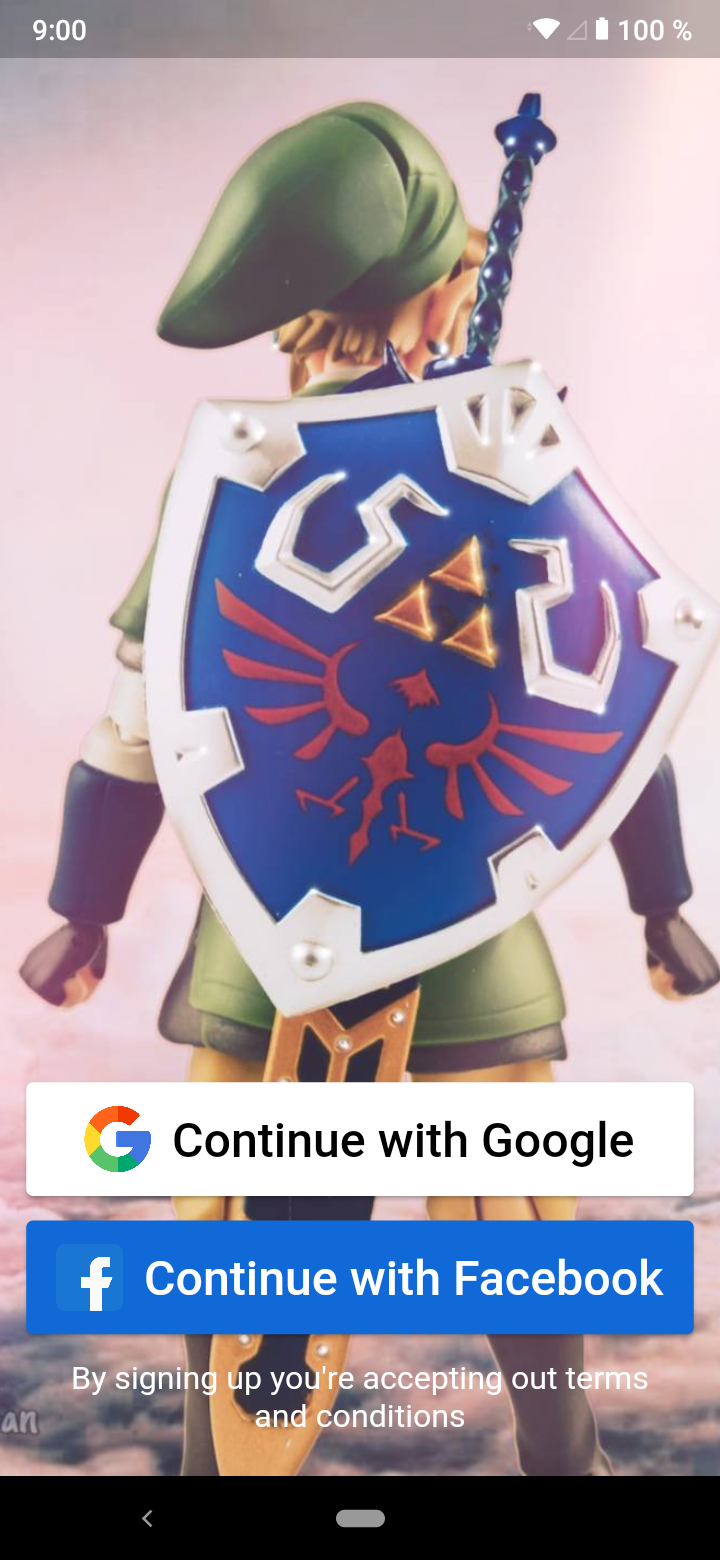
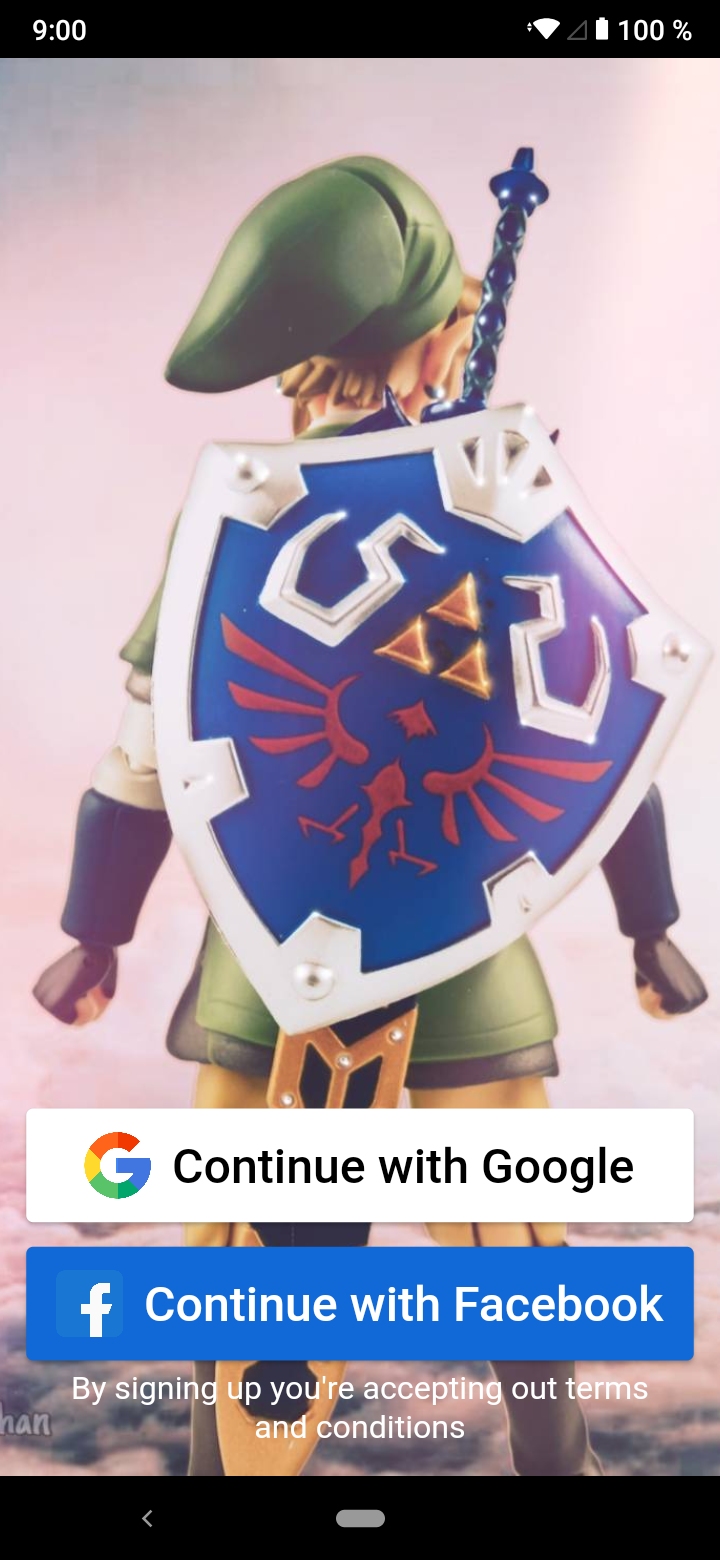
SafeArea

diff --git a/lib/screens/practice_20.dart b/lib/screens/practice_20.dart
@@ -11,7 +11,7 @@ class Practice20 extends StatelessWidget {
         child: Column(
           children: [
             Container(
-              height: 325,
+              height: 315,
               width: double.infinity,
               child: Stack(
                 children: [
@@ -118,14 +118,14 @@ class Practice20 extends StatelessWidget {
               ),
             ),
             Container(
-              padding: EdgeInsets.fromLTRB(20, 10, 20, 10),
+              padding: EdgeInsets.fromLTRB(20, 5, 20, 10),
               child: Text(
                 "Lorem Ipsum is simply dummy text of the printing and typesetting industry. Lorem Ipsum has been the industry's standard dummy text ever since the 1500s, when an unknown printer took a galley of type and scrambled it to make a type specimen book. It has survived not only five centuries, but also the leap into electronic typesetting, remaining essentially unchanged. It was popularised in the 1960s with the release of Letraset sheets containing Lorem Ipsum passages, and more recently with desktop publishing software like Aldus PageMaker including versions of Lorem Ipsum.",
                 style: TextStyle(fontSize: 16),
               ),
             ),
             Container(
-              padding: EdgeInsets.fromLTRB(10, 15, 10, 0),
+              padding: EdgeInsets.fromLTRB(10, 5, 10, 0),
               height: 80,
               width: double.infinity,
               child: Row(

diff --git a/lib/screens/practice_15.dart b/lib/screens/practice_15.dart
@@ -14,10 +14,10 @@ class Practice15 extends StatelessWidget {
             children: [
               Container(
                 child: Image.asset("images/taco.jpg",
-                    height: 300, width: double.infinity, fit: BoxFit.fitHeight),
+                    height: 290, width: double.infinity, fit: BoxFit.fitHeight),
               ),
               Container(
-                margin: EdgeInsets.fromLTRB(20, 30, 20, 25),
+                margin: EdgeInsets.fromLTRB(20, 25, 20, 25),
                 child: Column(
                   children: [
                     Container(
@@ -55,8 +55,7 @@ class Practice15 extends StatelessWidget {
                       ),
                     ),
                     SizedBox(
-                      height: 10,
-                      width: 10,
+                      height: 8,
                     ),
                     Container(
                       child: Text(
@@ -65,8 +64,7 @@ class Practice15 extends StatelessWidget {
                       ),
                     ),
                     SizedBox(
-                      height: 25,
-                      width: 15,
+                      height: 10,
                     ),
                     SizedBox(
                       width: double.infinity,

diff --git a/lib/screens/practice_10.dart b/lib/screens/practice_10.dart
@@ -12,7 +12,7 @@ class Practice10 extends StatelessWidget {
         child: Column(
           children: [
             SizedBox(
-              height: 620, //450
+              height: 590, //450
               width: double.infinity,
               child: Image.network("https://i.ibb.co/sbZnGJR/tloz-01.jpg",
                   fit: BoxFit.cover),
@@ -23,7 +23,7 @@ class Practice10 extends StatelessWidget {
                 children: [
                   SizedBox(
                     width: double.infinity,
-                    height: 64,
+                    height: 62,
                     child: OutlinedButton(
                       style: OutlinedButton.styleFrom(
                           side: BorderSide(
@@ -46,7 +46,7 @@ class Practice10 extends StatelessWidget {
                   ),
                   SizedBox(
                     width: double.infinity,
-                    height: 64,
+                    height: 62,
                     child: ElevatedButton(
                         style: ElevatedButton.styleFrom(
                           primary: Color.fromRGBO(17, 105, 215, 1),

diff --git a/lib/custom_widgets/product_card_23.dart b/lib/custom_widgets/product_card_23.dart
@@ -26,7 +26,9 @@ class ProductCard23 extends StatelessWidget {
             child: Stack(
               children: [
                 Container(
-                  padding: EdgeInsets.all(10.0),
+                  margin: EdgeInsets.all(10.0),
+                  //padding: EdgeInsets.all(10.0),
+                  color: Colors.white,
                   height: double.infinity,
                   width: double.infinity,
                   child: Image.asset(imageURL, fit: BoxFit.fitHeight),
@@ -39,7 +41,6 @@ class ProductCard23 extends StatelessWidget {
                       height: 25,
                       width: 30,
                       decoration: BoxDecoration(
-                        color: Colors.white,
                         borderRadius: BorderRadius.circular(100),
                       ),
                       child: Column(

diff --git a/lib/screens/practice_18.dart b/lib/screens/practice_18.dart
@@ -23,8 +23,8 @@ class Practice18 extends StatelessWidget {
               Align(
                 alignment: Alignment.bottomCenter,
                 child: Container(
-                  padding: EdgeInsets.fromLTRB(15, 25, 15, 5),
-                  height: 250,
+                  padding: EdgeInsets.fromLTRB(15, 20, 15, 0),
+                  height: 230,
                   width: double.infinity,
                   child: Container(
                     child: Column(
@@ -99,7 +99,7 @@ class Practice18 extends StatelessWidget {
                         ),
                         SizedBox(
                           width: double.infinity,
-                          height: 14,
+                          height: 5,
                         ),
                         SizedBox(
                           width: 350,

diff --git a/lib/screens/practice_16.dart b/lib/screens/practice_16.dart
@@ -10,11 +10,11 @@ class Practice16 extends StatelessWidget {
         body: Column(
           children: [
             SizedBox(
-              height: 165,
+              height: 135,
             ),
             Container(
               margin: EdgeInsets.all(15),
-              height: 450,
+              height: 440,
               width: double.infinity,
               decoration: BoxDecoration(
                 borderRadius: BorderRadius.circular(10),

diff --git a/lib/screens/practice_17.dart b/lib/screens/practice_17.dart
@@ -8,7 +8,7 @@ class Practice17 extends StatelessWidget {
     return Scaffold(
       body: Center(
         child: Container(
-          color: Colors.pink.shade200,
+          padding: EdgeInsets.fromLTRB(15, 0, 10, 0),
           height: 300,
           width: 400,
           child: Stack(

diff --git a/lib/main.dart b/lib/main.dart
@@ -8,6 +8,6 @@ main() {
       primarySwatch: Colors.blue,
     ),
     debugShowCheckedModeBanner: false,
-    home: Practice23(),
+    home: SafeArea(child: Practice23()),
   ));
 }
